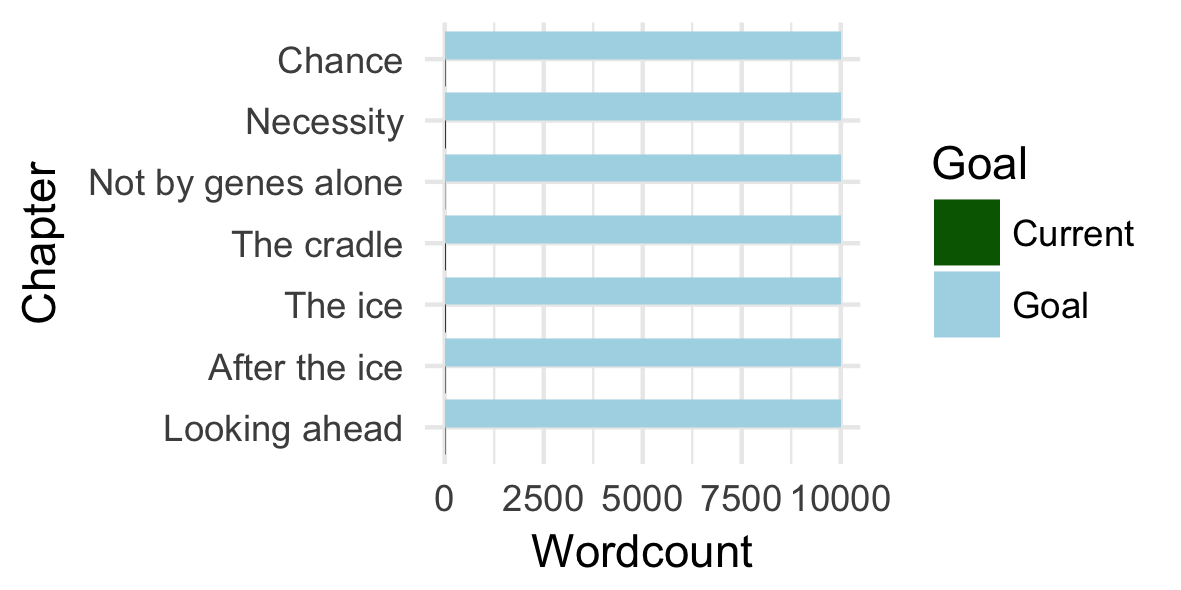
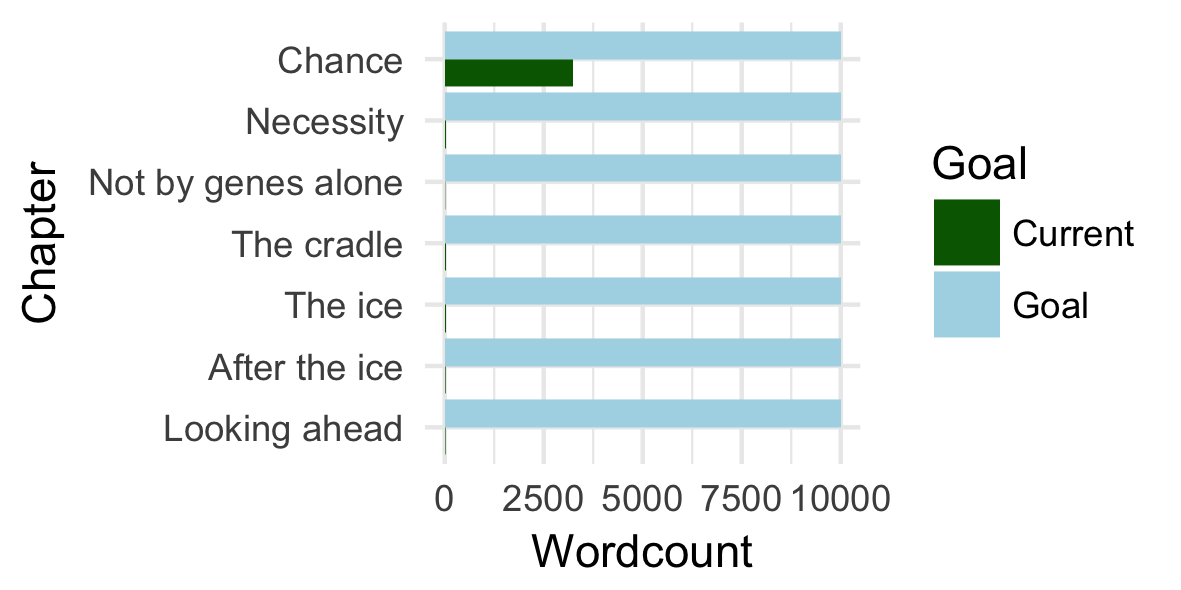
more on drift

Changed region(s): [[0.3658, 0.0915, 0.4877, 0.1525]]

diff --git a/chapters/Chance.md b/chapters/Chance.md
@@ -1,7 +1,5 @@
 # Chance
 
->> Explanation of random drift and how we evolve as populations by random sampling each generation.
-
 A common attack on evolutionary theory is that randomness doesn't bring complexity. If you have a hurricane going through a junk yard you won't end up with a plane. This is true. Randomness doesn't bring complexity. In the next chapter we will address why genetic theory does not build on randomness in that way. The theory we now have on evolution---we have had several in our history, but the one we have right now is the theory of natural selection---does not say that we evolve randomly. The *natural selection* part is important to understand evolution. But this chapter is not about natural selection. This chapter is on the randomness that underlies evolution.
 
 When a mommy and daddy loves each other very much they make a baby. Lets look a little deeper into this. The stork doesn't bring the child, contrary to popular believes, but chemistry and biology happens.
@@ -24,15 +22,45 @@ If you want to think about it this way, what you actually get is a mix of your g
 
 Each chromosome that you receive is actually at mix of at least two chromosomes from your grand parents. The chemistry involved with making sperm and egg sells requires this. You never get a clean copy; you get a mixed copy. Longer chromosomes have more of these, and shorter have less, but they all recombine. That makes the eight million closer to sixteen billion. And that is a low estimate. You really are unique. The combination of chromosomes you have, is likely to have never been around before.
 
-That isn't all, though. To the random shuffling of chromosomes, and the recombination of these, we have to add mutations.
-
-Each generations you add mutations. Not the cool kind you see in X-men, but just the everyday variation. To those chromosomes you get from your parents, you add a few mutations. In your genes, you have about 150 new variants that never existed before.
+That isn't all, though. To the random shuffling of chromosomes, and the recombination of these, we have to add mutations. Each generations you add mutations. Not the cool kind you see in X-men, but just the everyday variation. To those chromosomes you get from your parents, you add a few mutations. In your genes, you have about 150 new variants that are different from those of your parents.
 
 That might sound like a big number. You have 150 mutations. But keep in mind that this is out of six billion nucleotides. If you wanted to read out the entire code of your genome it would take you a lifetime. If you read one a second and never sleep you would still take 80 years to read it all out. We are dealing with really large numbers here. We mutate a little, but the reproduction mechanism is really amazing.
 
-Anyway, you have a unique combination of chromosomes and on top of that a unique set of mutations. This is the randomness of evolution. Each new person is a completely new combination of genetics.
+Anyway, you have a unique combination of chromosomes and on top of that a unique set of mutations. This is the randomness of evolution. Each new person is a completely new combination of genetics. Because of this random shuffling of chromosomes and the random mutations that is added on top of it, evolution never slows down. Each generation is different from the previous.
 
-Because of this random shuffling of chromosomes and the random mutations that is added on top of it, evolution never slows down. Each generation is different from the previous.
+## Models of evolving populations
 
-It is really hard to grown an intuition about how this whole thing works, but we do have maths to help us along, to guide our thoughts.
+It can be really hard to grown an intuition about how this whole thing works, but we do have maths to help us along, to guide our thoughts. We have mathematical models that describe how idealised populations evolve over time. These models are, of course, much simpler than the complex real biology that exists, but they capture various aspects of evolving populations and are tractable to analyse.
+
+One such model is the Wright-Fisher model, named after geneticists Sewall Wright and Ronald Fisher. In this model, we imagine that generations are discrete and do not overlap in time---as you might imagine a population of plants that bloom in the summer, spread their seeds, then die out before the winter and the generation that follows the next summer---and furthermore we imagine that the population is stable in the sense that the size of each generation is the same as the previous. The model does not consider individuals as combinations of different chromosomes and it doesn't consider recombination of chromosomes, but it captures how different variants of genes that compose a population can change over time.
+
+The model works as follows: Imagine you have a big bucket full of differently coloured marbles. Each different colour represent a different genetic variant and each marble a different individual. The whole bucket of marbles represent one generation. To go from one generation to the next, you now do this: you pick a marble in the bucket at random, and not its colour. You can put a marble with the same colour in a new bucket, representing the next generation and you put the marble you picked back into the first bucket. You repeat this until the new bucket has as many marbles as the first bucket.
+
+Since you are not just moving the marbles from one bucket to the next---you are doing what statisticians call sampling with replacement---you new generation is not an exact copy of the previous. The chance that you pick any specific colour from the first bucket is proportional to how many marble there are of that colour. If 10% of the marbles in the first bucket are red, say, then the chance that any marble you put in the second bucket is read is also 10%, but you are picking marbles are random, so the next generation could end up with a few more or a few less red marbles than the previous. If you created lots of "next generation" buckets this way, the average of the next generation's fraction of red marbles would be 10%, but each of the buckets are likely to have a little more or a little less red in them.
+
+How much the next bucket looks like the first depends on how many marbles you have in the bucket to begin with. If there are lots of marbles in the bucket, the next generation bucket will look more like the first generation than if you had few marbles in the bucket. This is just as if you are flipping a coin. If you do it twice you wouldn't be awfully surprised to see two heads, but if you flip a coin thousand of times you would be very surprised if you end up with only heads. When you flip a coin, you would expect, on average, to get as many heads as tails, but with only a few flips you could get more heads than tails or vice versa. Similarly, when you pick coloured marbles at random, you would expect the the new bucket to have roughly as many marbles of each colour as the first bucket if you picked lots of marbles, but you wouldn't be awfully surprised if the fraction of marbles of each colour to be different if you only pick a few marbles.
+
+How much a population changes from one generation to the next depends on how many individuals there are in the population. Small populations---buckets with a few marbles---changes more from one generation to the next, when we consider the composition of different colours, than larger populations do. The size of a generation is thus a key parameter for how fast the genetic composition of a population changes. For the Wright-Fisher model, the number of marbles is the population size, and it doesn't change from one generation to the next, but the speed at which the genetic composition changes depends on this population size. Other models of populations have different rules for how to compose future generations over time, but the speed at which populations change their genes can often be reduced to how fast a similar Wright-Fisher model would change. When we can do this, we would say that the other model has the same "effective population size" as the Wright-Fisher model that evolves at the same speed as the other model does.
+
+You model generations in the Wright-Fisher buckets by repeating the process for as many generations as you want. You create the second generation bucket by sampling marble colours from the first generation, then you sample the third generation by picking colours the same way starting with the second bucket instead of the first, and the fourth generation you create by sampling marbles from the third bucket, and so on. In each step in this process, you would on average expect the fraction of marbles with each colour to remain the same, but because you are sampling at random, the fractions end up changing over time. How much you change these fractions from one generation to the next is inversely proportional to the size of each generation; if your population is increased by a factor of two, it takes twice as long to see the same amount of change.
+
+> Insert an example here.
+
+How fast the population changes over time is determined by the effective population size, and if you read the genetics literature you will see many references to the effective population size. When you do, it usually just refers to how fast a population changes, but it is a little misleading to reduce this speed of change to a single parameter, although it is often done. The effective population size is a measure of the speed of change in the Wright-Fisher model, but if you change your model just a little, the speed of change becomes a more dynamic property of the model that doesn't necessarily maps cleanly into a single parameter.
+
+If we imagine a Wright-Fisher model with a slight modification, we can see how this works. We can imagine running the Wright-Fisher model for ten generation with a population size of 1000, then five generations where we reduce the generation size to 100, and then another ten generations with a population size of 1000. Because we are changing the population size in the 25 generations we consider, it isn't a clean Wright-Fisher model, but we can consider how fast the population changes over the 25 times. It is just that the population will change relatively slowly in the first and last ten generations in this example, but in the middle five generations the change per generation will be ten times as large as in the beginning and end phase of the process. We *can* replace the process with a population bottleneck in the middle with a Wright-Fisher model with a constant population size and get an effective population size that corresponds to the bottleneck model, but the dynamics of that model would be different.
+
+For modern humans, we often estimate that the effective population size is relatively small. About 10,000-20,000 individuals is what we would need to get the genetic variation we see in modern humans today, despite there being more than seven billion humans around. We have very little genetic variation in modern humans because we are a relatively young species, but if we just reduce humanity to a Wright-Fisher model we loose a lot of information about how we actually evolve and evolved. The small effective population size we have today is a historical accident. It is only small because we consider a long time period when we look at all the genetic variation around today and see it is very small. In actuality, it means that early human populations changes fast, but today, with billions of people, we actually change very slow. If we consider the last 1000 years, we change gene frequencies slowly; if we consider the last 100,000 years, we have changed gene frequencies fast. We used to have a small effective population size; now we have a large effective population size. The genetic variation we have today stretches back a couple of million years, and the average effective population size over that long period is small, but it isn't any longer. The speed at which humanity changes its genetic composition at random is slowing down as the population size increases. Interestingly, though, the speed at which we can adapt to our environment is speeding up, but that is the topic of the next chapter.
+
+If we only consider random changes to the genetic composition of a population, we get two observations from the Wright-Fisher model: the genetic composition of a population will change over time because of random sampling from one generation to the next, and the speed at which a population changes is inversely proportional to how many individuals the population holds. For humanity, it tells us that the evolution might have slowed down, at least if we only consider random changes over time, but also that we haven't done away with evolution as long as there is genetic variation in the species. As long as there are differently coloured marbles in the buckets, the fractions of different colours will change over time.
+
+In the simple model, we just sample marbles, so we start out with the colours we have in the first bucket, and change the frequencies of these over following generations. Each generation, there is a chance that some colours will be completely lost. If we never sample a rare colour when we create a new generation, that colour will not make it into the next bucket, and we thus cannot sample it in future generations. Genetic variation is lost over time, and if we do not introduce new variation in some way, we will eventually end up with only one colour in our buckets. Once we get there, the population will be stuck with that colour for all future generations. That colour would be fixed for the population and all other colours would be lost.
+
+Mutations is what prevents this from happening. We can add mutations to the Wright-Fisher model thus: whenever we sample a marble there is a slight chance that we do not put, into the new bucket, the exact colour we picked. Instead, we could throw in a different colour, perhaps a colour we haven't ever seen before.
+
+Mutations are rare. The chemistry that copies our DNA from one generation to the next is amazing at preventing changes---far superior to any copying mechanism that we humans have ever invented---but with billions of nucleotides in our genome, a few changes are introduced each generation nevertheless. In the Wright-Fisher model we can model mutations by having a slight probability that when we sample a colour from the previous generation bucket we actually put into the next generation bucket a different coloured marble. If you run the Wright-Fisher model long enough, you reach an equilibrium where the new colours you introduce as mutations matches the colours that are lost to random sampling, and the number of different colours you see in each bucket reflects that. The speed at which the different colours change over time is inversely proportional to the population size, but the speed at which new mutations enter the population is proportional to the population size---each time you sample a new marble there is the same chance that you introduce a mutation---so the two terms cancel out and you reach an equilibrium.
+
+For humanity, this means that in the past when there were few humans around, we had few new mutations each generation, but these were lost or fixated relatively quickly; today, when there are billions of humans around, it takes a long time for variants to get lost or fixed, but we introduce more new mutations each generation as well.
+
+
 
